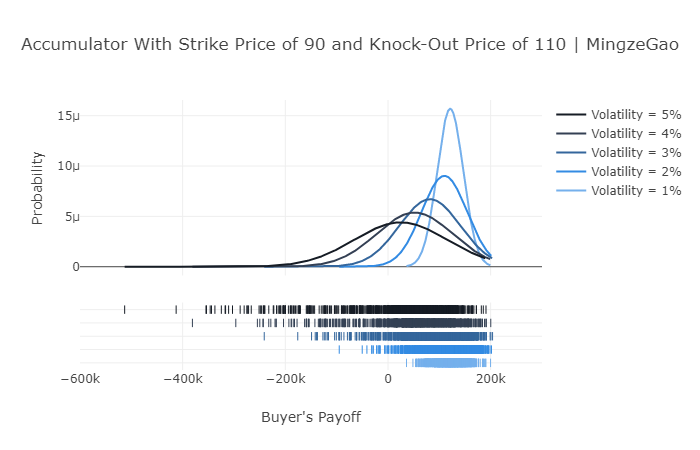
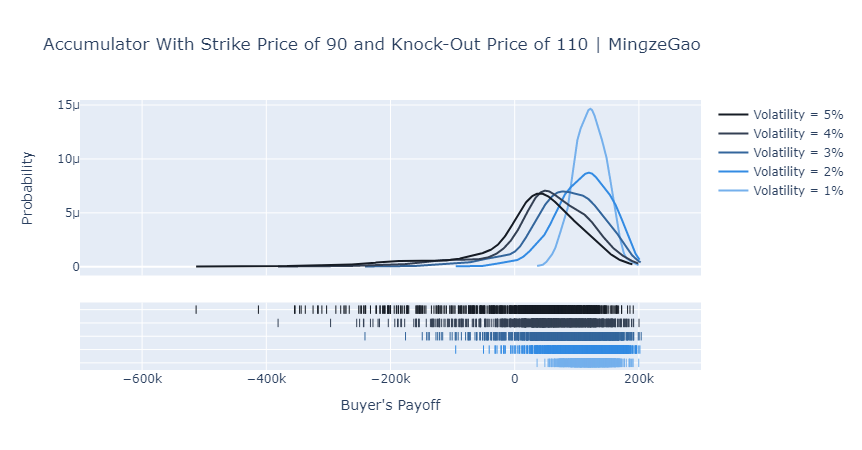
fix(post): replace normal with kde plot
should not force normal curve; additionally add plot code and update simulation code for most recent
plotly version

diff --git a/src/pages/posts/accumulator-option-pricing.md b/src/pages/posts/accumulator-option-pricing.md
@@ -120,10 +120,10 @@ The simulation code I write below leverages [Numba](http://numba.pydata.org/) to
 For 1 million simulations per pair of $(k, \sigma)$, it takes about 2 seconds on my laptop with JIT and almost 1 minute without it.
 
 ```python
-import random
 import numpy as np
 from collections import OrderedDict
-from numba import jitclass, int32, float32
+from numba import int32, float32
+from numba.experimental import jitclass
 
 
 @jitclass(OrderedDict({
@@ -172,7 +172,33 @@ class FastSimulation:
 
 ### 5.3. Results
 
-Numbers are boring. So here I put two plots showing the distribution of the buyer's payoffs.
+Numbers are boring. So here I put two plots showing the distribution of the buyer's payoffs. The Python code to generate the plots is as below (1000 simulations).
+
+```python
+import plotly.figure_factory as ff
+import plotly.graph_objs as go
+from plotly.offline import download_plotlyjs, init_notebook_mode, plot, iplot
+
+init_notebook_mode(connected=True)
+
+hist_data, group_labels = [], []
+
+for v in range(1, 6):
+    hist_data.append(FastSimulation(times=1_000, strike_price=95, knock_out_price=105, volatility=v).run())
+    group_labels.append(f'Volatility = {v}%')
+    
+colors = ['#75b0ec', '#338be3', '#34669c', '#344054', '#161c25']
+
+# Create distplot with curve_type set to 'normal'
+fig = ff.create_distplot(hist_data, group_labels, show_hist=False, colors=colors, curve_type="kde")
+
+# Add title
+fig['layout'].update(title='Accumulator With Strike Price of 95 and Knock-Out Price of 105 | MingzeGao', 
+                    xaxis=dict(title="Buyer's Payoff", range=[-700e3, 300e3]), yaxis=dict(title='Probability'))
+
+# Plot!
+iplot(fig)
+```
 
 #### 5.3.1. $k=5$ and $v\in [1..5]$
 
